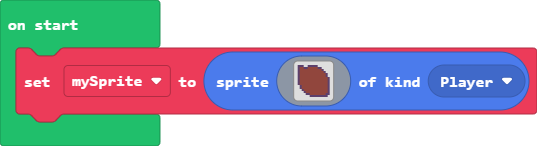
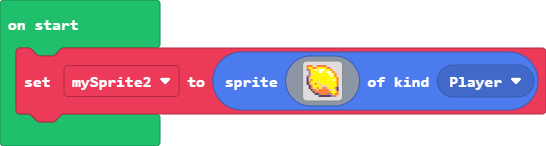
Update main.blocks, main.ts

diff --git a/main.ts b/main.ts
@@ -1,18 +1,18 @@
-let mySprite = sprites.create(img`
-    c c c . . c c c c c . . . . . . 
-    c e e c c e e e e e c c . . . . 
-    c e e e e e e e e e e e c . . . 
-    c e e e e e e e e e e e e c . . 
-    c e e e e e e e e e e e e e c . 
-    c e e e e e e e e e e e e e c . 
-    c e e e e e e e e e e e e e e c 
-    c e e e e e e e e e e e e e e c 
-    c e e e e e e e e e e e e e e c 
-    c e e e e e e e e e e e e e e c 
-    . c e e e e e e e e e e e e e c 
-    . c e e e e e e e e e e e e e c 
-    . . c e e e e e e e e e e e e c 
-    . . . c e e e e e e e e e e e c 
-    . . . . c c e e e e e e e e c c 
-    . . . . . . c c c c c c c c c . 
+let mySprite2 = sprites.create(img`
+    4 4 4 . . 4 4 4 4 4 . . . . . . 
+    4 5 5 4 4 5 5 5 5 5 4 4 . . . . 
+    b 4 5 5 1 5 1 1 1 5 5 5 4 . . . 
+    . b 5 5 5 5 1 1 5 5 1 1 5 4 . . 
+    . b d 5 5 5 5 5 5 5 5 1 1 5 4 . 
+    b 4 5 5 5 5 5 5 5 5 5 5 1 5 4 . 
+    c d 5 5 5 5 5 5 5 5 5 5 5 5 5 4 
+    c d 4 5 5 5 5 5 5 5 5 5 5 1 5 4 
+    c 4 5 5 5 d 5 5 5 5 5 5 5 5 5 4 
+    c 4 d 5 4 5 d 5 5 5 5 5 5 5 5 4 
+    . c 4 5 5 5 5 d d d 5 5 5 5 5 b 
+    . c 4 d 5 4 5 d 4 4 d 5 5 5 4 c 
+    . . c 4 4 d 4 4 4 4 4 d d 5 d c 
+    . . . c 4 4 4 4 4 4 4 4 5 5 5 4 
+    . . . . c c b 4 4 4 b b 4 5 4 4 
+    . . . . . . c c c c c c b b 4 . 
     `, SpriteKind.Player)
